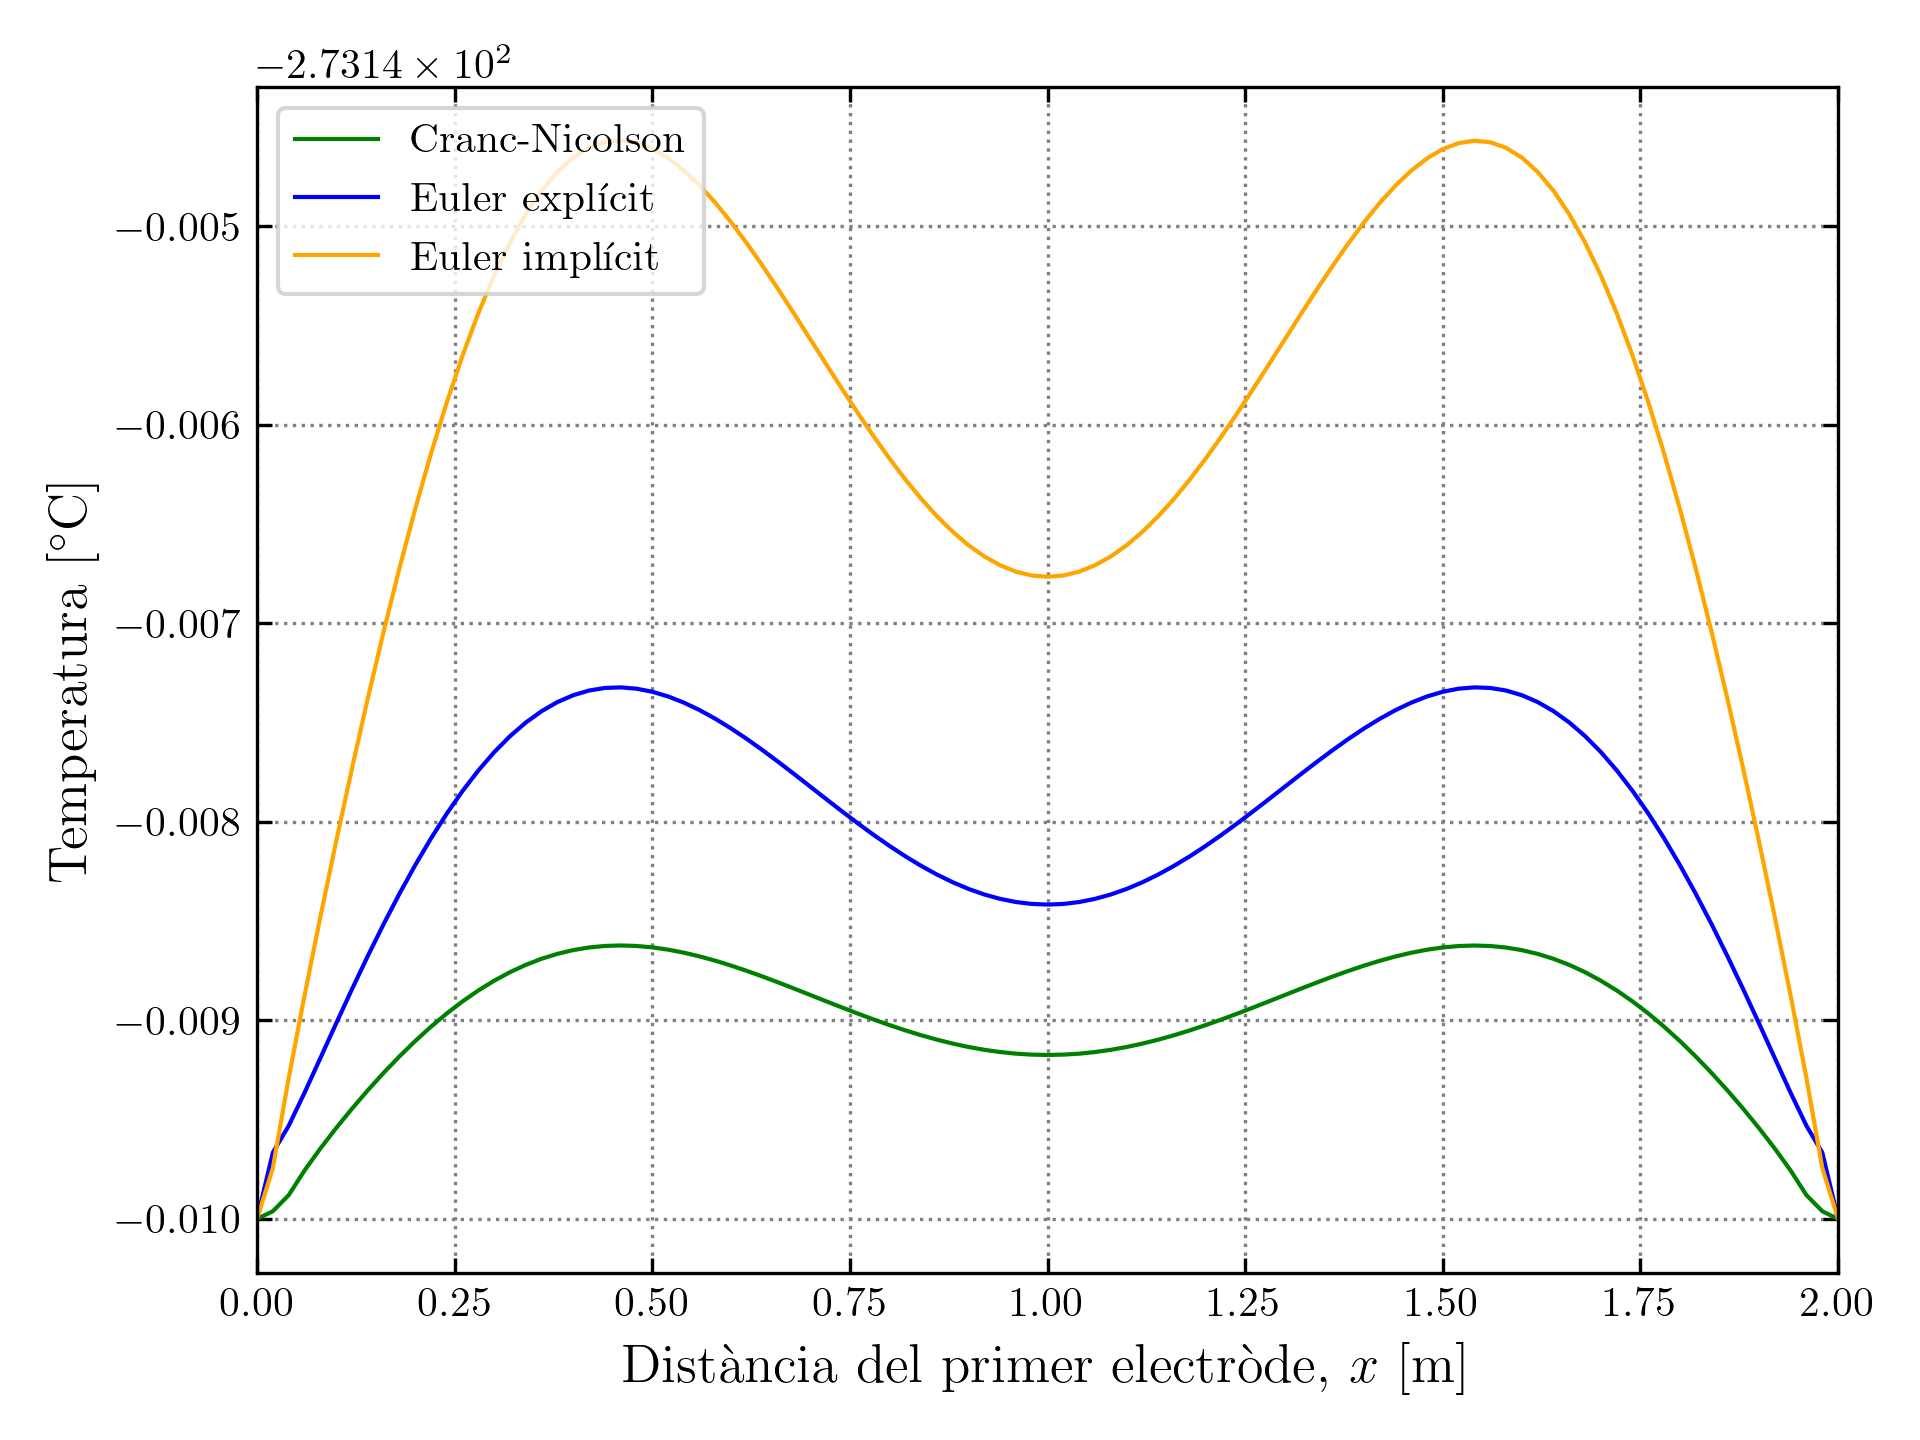
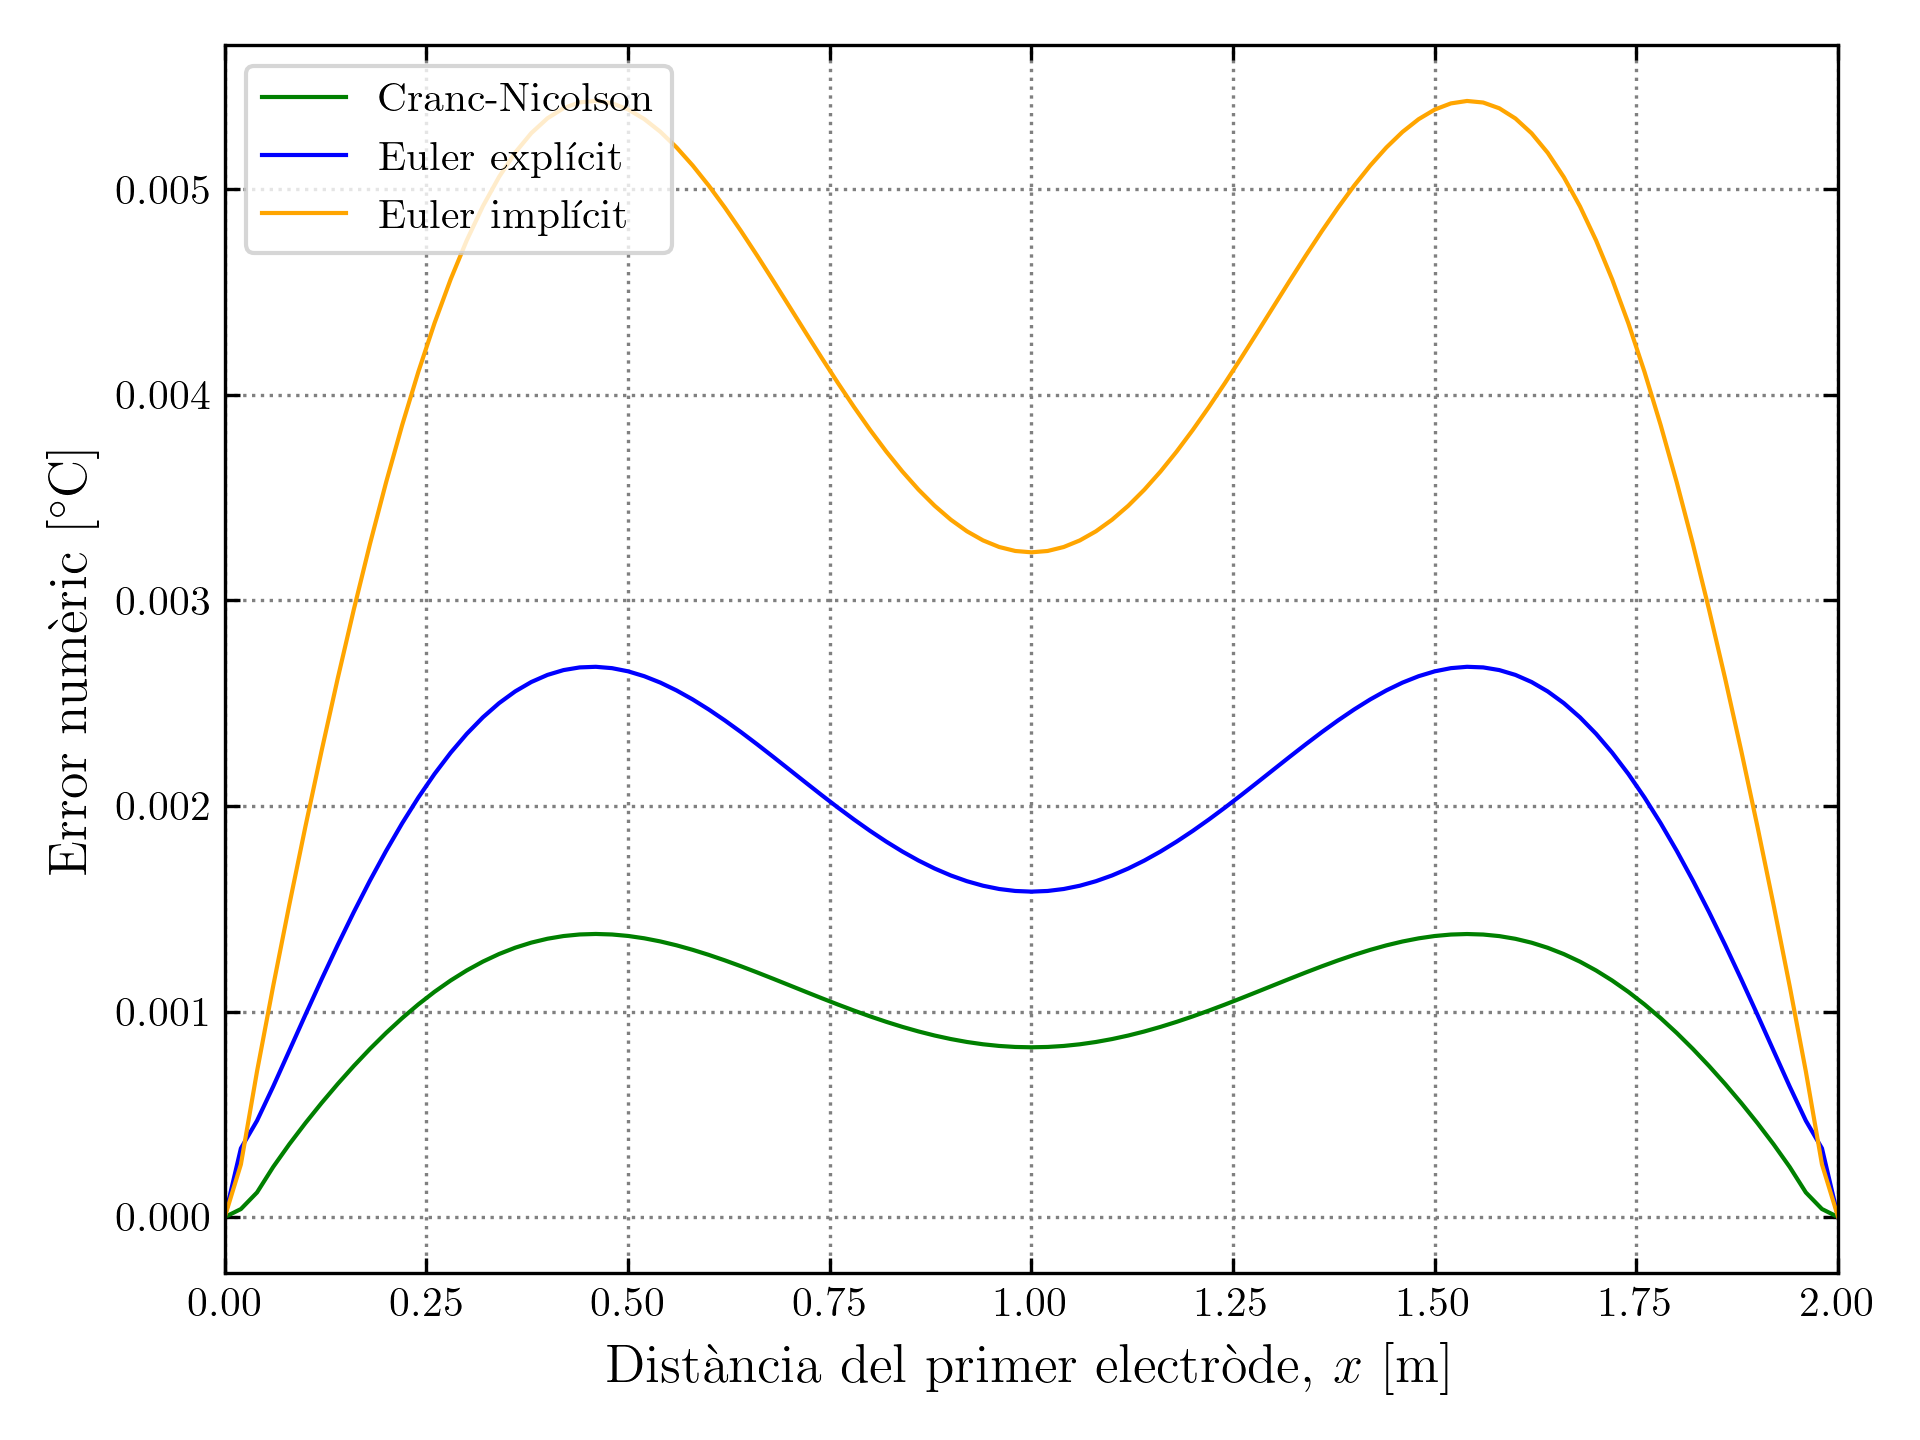
mes eficient

diff --git a/crank_nicolson.py b/crank_nicolson.py
@@ -6,7 +6,7 @@ plt.rcParams.update({
     "text.usetex": True,
     "font.family": "Computer Modern"})
 #Solució analítica fins al i-èsim terme
-def T(z,t,i,T0):
+def T(z,t,T0,i=100):
     for n in range(0,i+1):
         T0+=(4/(np.pi*(2*n+1)))*((1-np.exp(-((2*n+1)**2)*(np.pi**2)*t))/(((2*n+1)**2)*(np.pi**2)))*np.sin(np.pi*z*(2*n+1))
     return T0
@@ -64,7 +64,7 @@ Q = np.concatenate([np.array([0]),np.ones(n-2),np.array([0])])
 # Inicialitzem la temperatura t=0 a T=T_in a tota posicio
 T_inicial = T_c * np.ones(n)
 
-def analitica(gamma, n = 101, t_final = t_a):
+def analitica(gamma, n = 101, t_final = t_a, complet = False):
     Dx = 1/(n-1) #normalitzat
     #gamma = Dt/(Dx^2)
     Dt = gamma * Dx**2
@@ -73,9 +73,12 @@ def analitica(gamma, n = 101, t_final = t_a):
     sol_T_an = np.zeros((m,n))
     for i in range(0,m):
         for j in range(0,n):
-            sol_T_an[i,j] = T(j*Dx, i*Dt, 100, T_c)
-    return sol_T_an
-def explicit(gamma, T_i = T_inicial, n = 101, t_final = t_a):
+            sol_T_an[i,j] = T(j*Dx, i*Dt, T_c)
+    if complet == True:
+        return sol_T_an
+    else:
+        return sol_T_an[-1,:]
+def explicit(gamma, T_i = T_inicial, n = 101, t_final = t_a,complet=False):
     Dx = 1/(n-1) #normalitzat
     Dt = gamma * Dx**2
     m = int(t_final/Dt)  # Nombre d'iteracions temporals
@@ -87,9 +90,13 @@ def explicit(gamma, T_i = T_inicial, n = 101, t_final = t_a):
     sol_T_exp[0,:] = T_i.copy()
     for temps in range(1,m):
         T_i = E2 @ T_i + Dt * Q
-        sol_T_exp[temps,:] = T_i.copy()
-    return sol_T_exp
-def implicit(gamma, T_i = T_inicial,  n = 101, t_final = t_a):
+        if complet ==True:
+            sol_T_exp[temps,:] = T_i.copy()
+    if complet == True:
+        return sol_T_exp
+    else:
+        return T_i
+def implicit(gamma, T_i = T_inicial,  n = 101, t_final = t_a,complet=False):
     Dx = 1/(n-1) #normalitzat
     Dt = gamma * Dx**2
     m = int(t_a/Dt)  # Nombre d'iteracions temporals
@@ -103,9 +110,13 @@ def implicit(gamma, T_i = T_inicial,  n = 101, t_final = t_a):
         # Sistema lineal E1*T^{temps+Dt} = B^{temps} --> E1*T' = B_imp
         B_imp = T_i + Dt * Q
         T_i = gauss_seidel(E1, B_imp, T_i)
-        sol_T_imp[temps,:] = T_i.copy()
-    return sol_T_imp
-def cranc(gamma, T_i = T_inicial, n = 101, t_final = t_a):
+        if complet == True:
+            sol_T_imp[temps,:] = T_i.copy()
+    if complet == True:
+        return sol_T_imp
+    else:
+        return T_i
+def cranc(gamma, T_i = T_inicial, n = 101, t_final = t_a,complet = False):
     Dx = 1/(n-1) #normalitzat
     Dt = gamma * Dx**2
     m = int(t_a/Dt)  # Nombre d'iteracions temporals
@@ -120,9 +131,12 @@ def cranc(gamma, T_i = T_inicial, n = 101, t_final = t_a):
         # Sistema lineal N1*T^{temps+Dt} = B^{temps} --> N1*T' = B_exp
         B_cn = N2 @ T_i + Dt * Q
         T_i = gauss_seidel(N1, B_cn, T_i)
-        sol_T_cn[temps,:] = T_i.copy()
-    return sol_T_cn
-
+        if complet == True:
+            sol_T_cn[temps,:] = T_i.copy()
+    if complet == True:
+        return sol_T_cn
+    else:
+        return T_i
 exacta_1 = analitica(0.51)
 exacta_2 = analitica(0.49)
 exacta_3 = analitica(0.25)
@@ -131,7 +145,7 @@ exacta_5 = analitica(0.5)
 #PART 1: EULER EXPLICIT
 def part_1():
     explicit_1 = explicit(0.51)
-    plt.plot(2*np.linspace(0,1,n), explicit_1[-1,:]*Temp0-273.15, label = '0.51', color = 'blue')
+    plt.plot(2*np.linspace(0,1,n), explicit_1*Temp0-273.15, label = '0.51', color = 'blue')
     plt.xlabel('Distància del primer electròde, $x$ [m]',fontsize=13)
     plt.ylabel('Temperatura [$^\circ$C]',fontsize=13)
     plt.xlim(0,2)
@@ -143,7 +157,7 @@ def part_1():
     plt.cla()
 
     explicit_2 = explicit(0.49)
-    plt.plot(2*np.linspace(0,1,n), explicit_2[-1,:]*Temp0-273.15, label = '0.49', color = 'blue')
+    plt.plot(2*np.linspace(0,1,n), explicit_2*Temp0-273.15, label = '0.49', color = 'blue')
     plt.xlabel('Distància del primer electròde, $x$ [m]',fontsize=13)
     plt.ylabel('Temperatura [$^\circ$C]',fontsize=13)
     plt.xlim(0,2)
@@ -155,7 +169,7 @@ def part_1():
     plt.cla()
 
     explicit_3 = explicit(0.25)
-    plt.plot(2*np.linspace(0,1,n), explicit_3[-1,:]*Temp0-273.15, label = '0.25', color = 'blue')
+    plt.plot(2*np.linspace(0,1,n), explicit_3*Temp0-273.15, label = '0.25', color = 'blue')
     plt.xlabel('Distància del primer electròde, $x$ [m]',fontsize=13)
     plt.ylabel('Temperatura [$^\circ$C]',fontsize=13)
     plt.xlim(0,2)
@@ -170,7 +184,7 @@ def part_1():
     e_explicit_2 = np.abs(explicit_2-exacta_2)
     e_explicit_3 = np.abs(explicit_3-exacta_3)
 
-    plt.plot(2*np.linspace(0,1,n), e_explicit_1[-1,:]*Temp0, label = '$\gamma=0.51$', color = 'blue')
+    plt.plot(2*np.linspace(0,1,n), e_explicit_1*Temp0, label = '$\gamma=0.51$', color = 'blue')
     plt.xlabel('Distància del primer electròde, $x$ [m]',fontsize=13)
     plt.ylabel('Temperatura [$^\circ$C]',fontsize=13)
     plt.xlim(0,2)
@@ -182,7 +196,7 @@ def part_1():
     plt.savefig('error_explicit_51.png', dpi = 300)
     plt.cla()
 
-    plt.plot(2*np.linspace(0,1,n), e_explicit_2[-1,:]*Temp0, label = '$\gamma=0.49$', color = 'blue')
+    plt.plot(2*np.linspace(0,1,n), e_explicit_2*Temp0, label = '$\gamma=0.49$', color = 'blue')
     plt.xlabel('Distància del primer electròde, $x$ [m]',fontsize=13)
     plt.ylabel('Temperatura [$^\circ$C]',fontsize=13)
     plt.xlim(0,2)
@@ -194,7 +208,7 @@ def part_1():
     plt.savefig('error_explicit_49.png', dpi = 300)
     plt.cla()
 
-    plt.plot(2*np.linspace(0,1,n), e_explicit_3[-1,:]*Temp0, label = '$\gamma=0.25$', color = 'blue')
+    plt.plot(2*np.linspace(0,1,n), e_explicit_3*Temp0, label = '$\gamma=0.25$', color = 'blue')
     plt.xlabel('Distància del primer electròde, $x$ [m]',fontsize=13)
     plt.ylabel('Temperatura [$^\circ$C]',fontsize=13)
     plt.xlim(0,2)
@@ -209,7 +223,7 @@ def part_1():
 #PART 2: EULER IMPLICIT
 def part_2():
     implicit_1 = implicit(1)
-    plt.plot(2*np.linspace(0,1,n), implicit_1[-1,:]*Temp0-273.15, label = '$\gamma=1$', color = 'blue')
+    plt.plot(2*np.linspace(0,1,n), implicit_1*Temp0-273.15, label = '$\gamma=1$', color = 'blue')
     plt.xlabel('Distància del primer electròde, $x$ [m]',fontsize=13)
     plt.ylabel('Temperatura [$^\circ$C]',fontsize=13)
     plt.xlim(0,2)
@@ -221,7 +235,7 @@ def part_2():
     plt.cla()
 
     implicit_2 = implicit(0.5)
-    plt.plot(2*np.linspace(0,1,n), implicit_2[-1,:]*Temp0-273.15, label = '$\gamma=0.5$', color = 'blue')
+    plt.plot(2*np.linspace(0,1,n), implicit_2*Temp0-273.15, label = '$\gamma=0.5$', color = 'blue')
     plt.xlabel('Distància del primer electròde, $x$ [m]',fontsize=13)
     plt.ylabel('Temperatura [$^\circ$C]',fontsize=13)
     plt.xlim(0,2)
@@ -235,7 +249,7 @@ def part_2():
     e_implicit_1 = np.abs(implicit_1-exacta_4)
     e_implicit_2 = np.abs(implicit_2-exacta_5)
 
-    plt.plot(2*np.linspace(0,1,n), e_implicit_1[-1,:]*Temp0, label = '$\gamma=1$', color = 'blue')
+    plt.plot(2*np.linspace(0,1,n), e_implicit_1*Temp0, label = '$\gamma=1$', color = 'blue')
     plt.xlabel('Distància del primer electròde, $x$ [m]',fontsize=13)
     plt.ylabel('Temperatura [$^\circ$C]',fontsize=13)
     plt.xlim(0,2)
@@ -247,7 +261,7 @@ def part_2():
     plt.savefig('error_implicit_100.png', dpi = 300)
     plt.cla()
 
-    plt.plot(2*np.linspace(0,1,n), e_implicit_1[-1,:]*Temp0, label = '$\gamma=0.5$', color = 'blue')
+    plt.plot(2*np.linspace(0,1,n), e_implicit_1*Temp0, label = '$\gamma=0.5$', color = 'blue')
     plt.xlabel('Distància del primer electròde, $x$ [m]',fontsize=13)
     plt.ylabel('Temperatura [$^\circ$C]',fontsize=13)
     plt.xlim(0,2)
@@ -262,7 +276,7 @@ def part_2():
 #PART 3a: CRANC-NICOLSON
 def part_3a():
     cranc_1 = cranc(1)
-    plt.plot(2*np.linspace(0,1,n), cranc_1[-1,:]*Temp0-273.15, label = '$\gamma=1$', color = 'blue')
+    plt.plot(2*np.linspace(0,1,n), cranc_1*Temp0-273.15, label = '$\gamma=1$', color = 'blue')
     plt.xlabel('Distància del primer electròde, $x$ [m]',fontsize=13)
     plt.ylabel('Temperatura [$^\circ$C]',fontsize=13)
     plt.xlim(0,2)
@@ -274,7 +288,7 @@ def part_3a():
     plt.cla()
 
     cranc_2 = cranc(0.5)
-    plt.plot(2*np.linspace(0,1,n), cranc_2[-1,:]*Temp0-273.15, label = '$\gamma=0.5$', color = 'blue')
+    plt.plot(2*np.linspace(0,1,n), cranc_2*Temp0-273.15, label = '$\gamma=0.5$', color = 'blue')
     plt.xlabel('Distància del primer electròde, $x$ [m]',fontsize=13)
     plt.ylabel('Temperatura [$^\circ$C]',fontsize=13)
     plt.xlim(0,2)
@@ -288,7 +302,7 @@ def part_3a():
     e_cranc_1 = np.abs(cranc_1-exacta_4)
     e_cranc_2 = np.abs(cranc_2-exacta_5)
 
-    plt.plot(2*np.linspace(0,1,n), e_cranc_1[-1,:]*Temp0, label = '$\gamma=1$', color = 'blue')
+    plt.plot(2*np.linspace(0,1,n), e_cranc_1*Temp0, label = '$\gamma=1$', color = 'blue')
     plt.xlabel('Distància del primer electròde, $x$ [m]',fontsize=13)
     plt.ylabel('Temperatura [$^\circ$C]',fontsize=13)
     plt.xlim(0,2)
@@ -300,7 +314,7 @@ def part_3a():
     plt.savefig('error_cranc_100.png', dpi = 300)
     plt.cla()
 
-    plt.plot(2*np.linspace(0,1,n), e_cranc_2[-1,:]*Temp0, label = '$\gamma=0.5$', color = 'blue')
+    plt.plot(2*np.linspace(0,1,n), e_cranc_2*Temp0, label = '$\gamma=0.5$', color = 'blue')
     plt.xlabel('Distància del primer electròde, $x$ [m]',fontsize=13)
     plt.ylabel('Temperatura [$^\circ$C]',fontsize=13)
     plt.xlim(0,2)
@@ -318,11 +332,11 @@ def part_3b():
     err_T_exp = np.abs(explicit(0.49)-exacta_2)
     err_T_imp = np.abs(implicit(0.49)-exacta_2)
 
-    plt.plot(2*np.linspace(0,1,n), err_T_cn[-1,:]*Temp0-273.15, label='Cranc-Nicolson', linewidth = 1,color='g')
-    plt.plot(2*np.linspace(0,1,n), err_T_exp[-1,:]*Temp0-273.15, label='Euler explícit', linewidth = 1,color='blue')
-    plt.plot(2*np.linspace(0,1,n), err_T_imp[-1,:]*Temp0-273.15, label='Euler implícit', linewidth = 1,color='orange')
+    plt.plot(2*np.linspace(0,1,n), err_T_cn*Temp0, label='Cranc-Nicolson', linewidth = 1,color='g')
+    plt.plot(2*np.linspace(0,1,n), err_T_exp*Temp0, label='Euler explícit', linewidth = 1,color='blue')
+    plt.plot(2*np.linspace(0,1,n), err_T_imp*Temp0, label='Euler implícit', linewidth = 1,color='orange')
     plt.xlabel('Distància del primer electròde, $x$ [m]',fontsize=13)
-    plt.ylabel('Temperatura [$^\circ$C]',fontsize=13)
+    plt.ylabel('Error numèric [$^\circ$C]',fontsize=13)
     plt.xlim(0,2)
     plt.tick_params(axis='both', direction='in', top=True, right=True)
     plt.legend(fontsize=10, loc = 'upper left')
@@ -330,6 +344,8 @@ def part_3b():
     plt.tight_layout()
     plt.savefig("comparacio_error_49.png",dpi=300)
     plt.show()
-
 #EXECUTEU AQUI LA PART DE PROGRAMA QUE US INTERESSI (sinó tarda massa)
+part_1()
+part_2()
+part_3a()
 part_3b()
